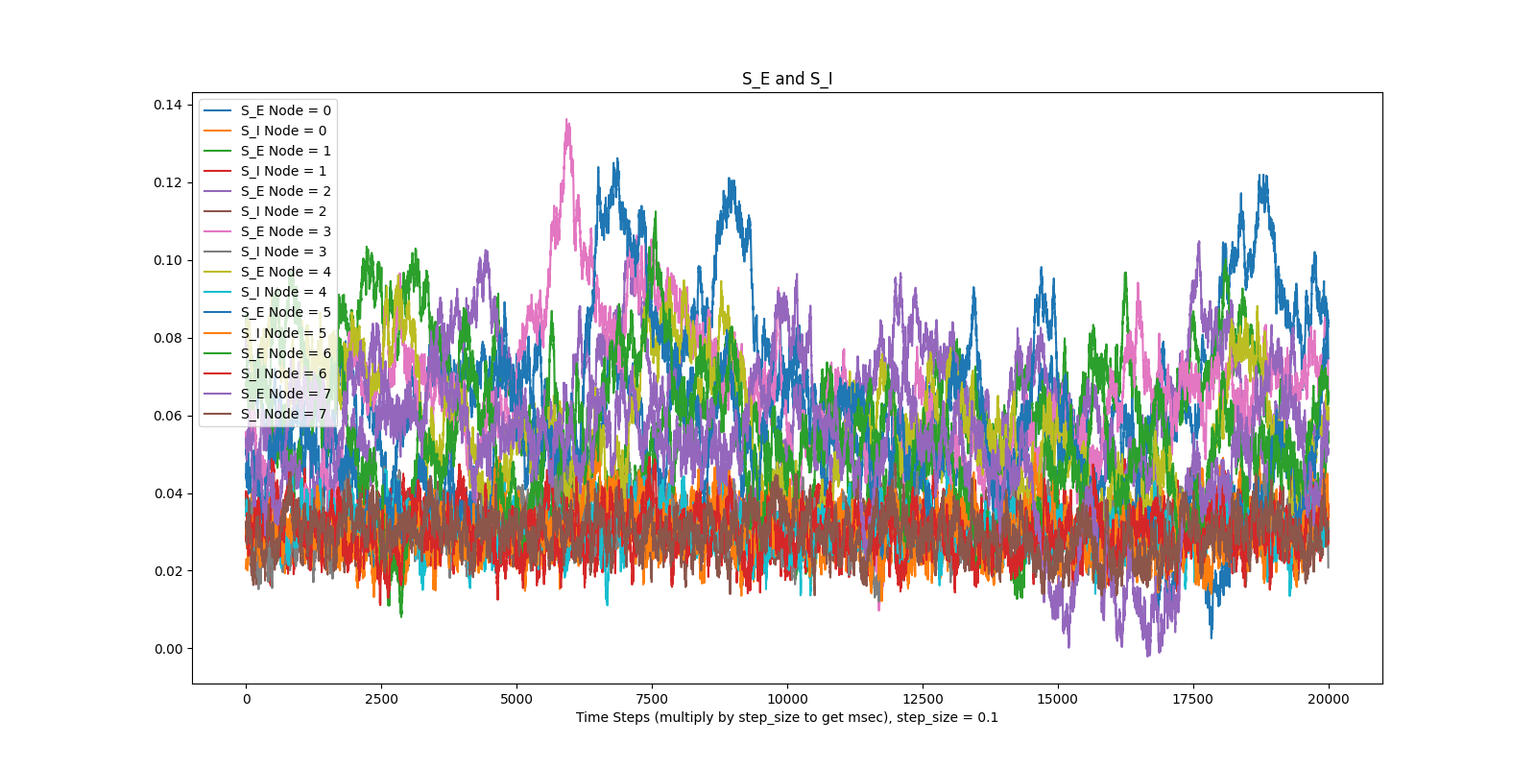
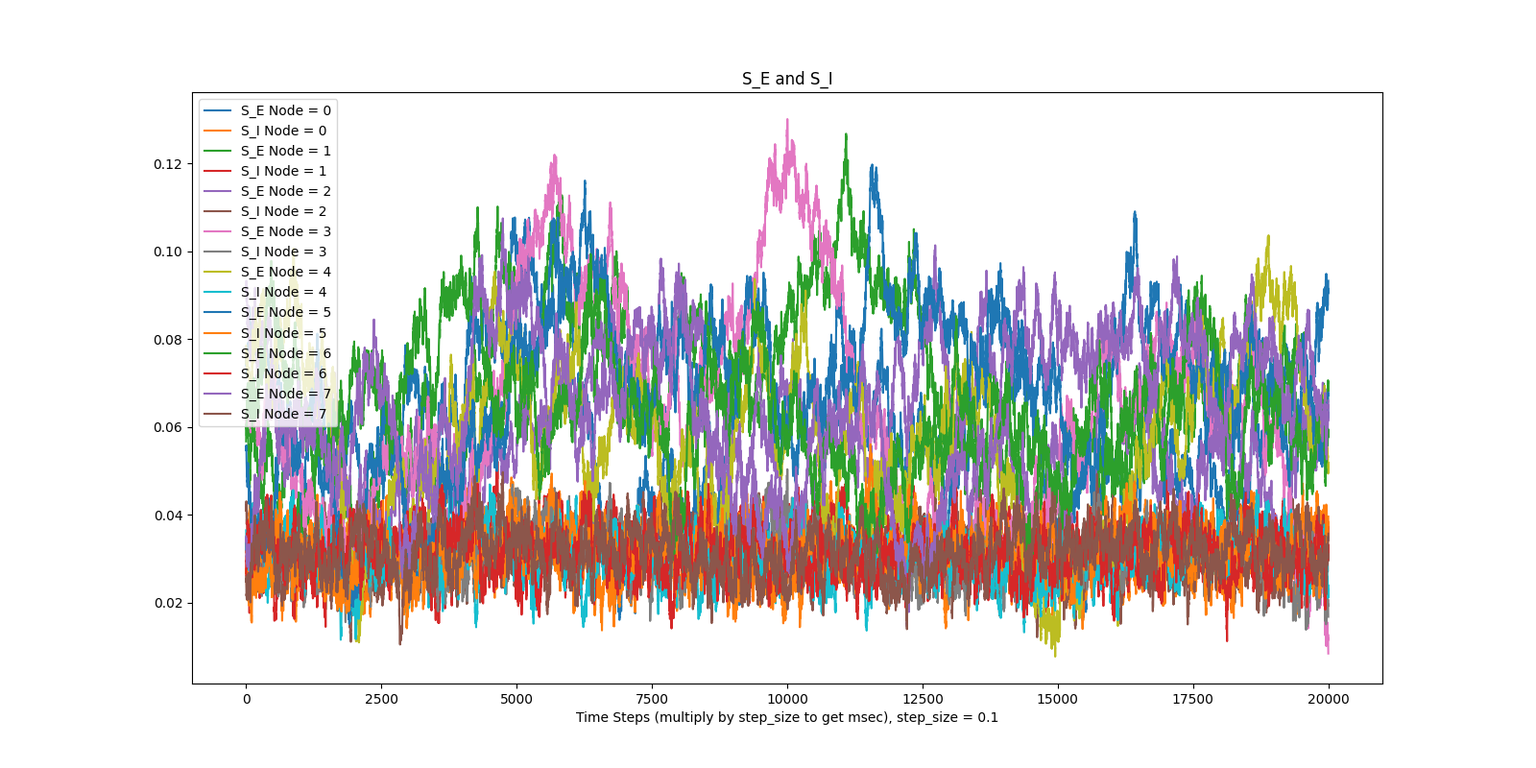
deploy: 3aa56848fb56332843e39df2d585531f913cd6cb

diff --git a/searchindex.js b/searchindex.js
@@ -1,1 +1,1 @@
-Search.setIndex({docnames:["about_whobyt/architecture","about_whobyt/overview","auto_examples/eg001x__template","auto_examples/eg002r__multimodal_simulation","auto_examples/index","auto_examples/sg_execution_times","getting_started/installation","getting_started/running_in_colab","index","usage"],envversion:{"sphinx.domains.c":2,"sphinx.domains.changeset":1,"sphinx.domains.citation":1,"sphinx.domains.cpp":3,"sphinx.domains.index":1,"sphinx.domains.javascript":2,"sphinx.domains.math":2,"sphinx.domains.python":2,"sphinx.domains.rst":2,"sphinx.domains.std":2,"sphinx.ext.intersphinx":1,"sphinx.ext.viewcode":1,sphinx:56},filenames:["about_whobyt/architecture.md","about_whobyt/overview.rst","auto_examples/eg001x__template.rst","auto_examples/eg002r__multimodal_simulation.rst","auto_examples/index.rst","auto_examples/sg_execution_times.rst","getting_started/installation.rst","getting_started/running_in_colab.rst","index.rst","usage.rst"],objects:{},objnames:{},objtypes:{},terms:{"000":[2,5],"0000":3,"002036104677245021":3,"005781529471278191":3,"0094150360673666":3,"010599048808217049":3,"01133935246616602":3,"0366364":3,"0370939":3,"037254":3,"0372727":3,"0374277":3,"0375037":3,"0375547":3,"0382934":3,"0619475":3,"0619864":3,"0619943":3,"0619949":3,"0620283":3,"0620583":3,"06206":3,"0620784":3,"0x7f73a041a0a0":3,"1000":[0,3],"1016335":3,"1021738":3,"1023388":3,"1024437":3,"1026025":3,"1027005":3,"1027243":3,"1035488":3,"11239":0,"12115564942359924":3,"1273":0,"1314":0,"1500":3,"15000":3,"164":[4,5,8],"1662248":3,"1662672":3,"1662673":3,"1662692":3,"1663083":3,"1663382":3,"1663412":3,"16636":3,"19158071279525757":3,"2000":3,"2003":0,"2006":0,"2013":0,"2014":0,"23532330989837646":3,"24999991":3,"271318":3,"2713506":3,"2713525":3,"2713609":3,"2714005":3,"2714304":3,"2714353":3,"2714536":3,"2741433382034302":3,"302":0,"30492928624153137":3,"3283":3,"33132219314575195":3,"3501226":3,"35012308":3,"3501232":3,"35012412":3,"35012466":3,"35012707":3,"35012767":3,"3501335":3,"3520013689994812":3,"3697364926338196":3,"3771743":3,"3771926":3,"3771958":3,"3772221":3,"3772597":3,"3772883":3,"3772994":3,"3773168":3,"38641345500946045":3,"40181997418403625":3,"41333746910095215":3,"42738163471221924":3,"4286":3,"43893444538116455":3,"44900232553482056":3,"45044634":3,"45045084":3,"45045668":3,"45046532":3,"4504661":3,"45047113":3,"4504718":3,"45048457":3,"4577788710594177":3,"4835687":3,"4835688":3,"4835947":3,"4836113":3,"4836515":3,"483664":3,"4837035":3,"4837241":3,"500":3,"5510708":3,"5510782":3,"55108964":3,"5511122":3,"55111665":3,"5511208":3,"5511244":3,"55114025":3,"5899936":3,"590003":3,"5900123":3,"5900214":3,"590066":3,"5900729":3,"5901526":3,"5901536":3,"6144":3,"65209836":3,"6521152":3,"65212756":3,"65215415":3,"6521694":3,"65217197":3,"6521728":3,"652192":3,"6931864":3,"6932437":3,"6932517":3,"6932706":3,"6933088":3,"6933185":3,"6933932":3,"6934042":3,"7536183":3,"7536405":3,"75365317":3,"753677":3,"7536811":3,"75370264":3,"7537048":3,"7537256":3,"7886":0,"7938849":3,"7938988":3,"7939461":3,"7939734":3,"7940006":3,"7940689":3,"794143":3,"7943685":3,"802":[3,5],"85571194":3,"855741":3,"85575396":3,"85576546":3,"8557822":3,"8558073":3,"85580933":3,"8558301":3,"8837867":3,"8839144":3,"8839935":3,"8840643":3,"8841339":3,"884198":3,"8842194":3,"884711":3,"95846355":3,"958498":3,"9585084":3,"95851374":3,"95853984":3,"9585676":3,"9585696":3,"95858866":3,"9643142":3,"9646422":3,"9647535":3,"9648108":3,"9649364":3,"964938":3,"965015":3,"9656528":3,"case":0,"class":[0,3],"default":[4,5,8],"float":3,"function":[0,4],"import":[0,2,3,7],"int":3,"long":0,"new":7,"return":3,"super":3,"true":3,Added:3,And:2,Not:3,That:3,The:[0,2],Then:[3,7],Used:3,__init__:3,a_E:0,a_i:0,abl:3,abs:3,activ:6,adam:3,add:[1,3],addit:[0,7],all:3,alreadi:3,also:3,alvarez:0,amplitud:0,ani:4,anywai:7,append:3,approv:7,artifici:[0,3],assum:3,ath:2,aug:0,auto_exampl:5,auto_examples_jupyt:4,auto_examples_python:4,avail:4,averag:0,axessubplot:3,axi:3,b_e:0,b_i:0,backward:3,batch:0,being:3,between:3,biolog:0,bit:3,blah:[2,3],bold_fc:3,bold_fc_loss:3,bold_fc_weight:3,bold_histori:3,bold_lay:3,bold_p:3,bold_param:3,bold_psd:3,bold_psd_loss:3,bold_psd_weight:3,bold_stat:3,brain:0,branch:7,browser:7,calcfc:3,calcloss:3,calcpsd:3,calctotalloss:3,calcul:0,call:0,can:[4,7],cat:3,causal:0,cell:7,center:3,chang:3,chdir:7,choosen:3,chosen:3,click:[2,3],clone:[3,6,7],cmap:3,cmat:0,code:[2,3,4,7],com:[6,7],come:9,compar:0,compon:3,con_mtx:3,conda:6,condit:[0,3],conn_mat:0,connect:0,construct:0,contain:3,continu:7,conveni:7,corbetta:0,corner:3,correspond:7,coupl:0,courner:3,creat:[3,6],cube:3,current:[0,3],d_e:0,d_i:0,data:[0,3],data_tofit:0,debug:3,decis:0,deco:0,decorrel:3,def:3,defin:0,delai:0,delayst:0,demo:[4,5],depend:0,detach:3,differ:[0,3,4],dim:3,dist:3,dist_mtx:3,distanc:3,distribut:3,dmat:0,doc:7,doe:[2,3],down:7,download:[2,3,4],downsmoothpsd:3,drop:7,dtype:3,dure:3,dynam:0,each:[0,3,7],eeg:0,eeg_fc:3,eeg_fc_loss:3,eeg_fc_weight:3,eeg_histori:3,eeg_lay:3,eeg_param:3,eeg_psd:3,eeg_psd_loss:3,eeg_psd_weight:3,effect:0,eg001x__templ:[2,5],eg002r__multimodal_simul:[3,5],eig:3,eigenvalu:3,either:0,electrod:3,els:3,emerg:0,empir:0,environ:[6,7],epoch:3,equal:3,equat:0,erp_timeseries_data:0,event:3,exampl:[2,3,7],excit:0,excitatori:0,execut:5,experi:7,explor:4,extern:0,eye:3,face:3,fals:3,feed:0,feedback:0,ffi:0,fic:0,figsiz:3,figur:3,file:[0,5,7],find:3,first:[3,7],fit:[0,4,5,8],fit_model:0,fitted_r:0,fitter:0,fluctuat:0,fmri:0,folder:6,follow:7,forward:[0,3],four:3,fourth:3,friston:0,from:[0,2,3,6],full:[2,3],functionalconnectivityloss:3,galleri:[2,3,4,7],gamma:0,gammai:0,gate:0,gaussian:0,gener:[2,4],get:[0,3],git:[6,7],github:[6,7],good:7,graph:0,griffithslab:[6,7],hagmann:0,harrison:0,has:4,heatmap:3,here:[2,3,9],how:0,http:[6,7],i_0:0,i_extern:0,idea:7,imag:2,impact:0,increasingli:7,index_img:2,indiviu:3,inhibit:0,inhibitori:0,init_st:3,initi:3,input:0,insert:7,instal:8,install_colab:7,integr:0,ipynb:[2,3,7],item:3,j_nmda:0,j_valu:3,jan:0,jansen_lay:3,jansenritt:0,journal:0,jul:0,jun:0,jupyt:[2,3,4],kinet:0,label:3,lambda:0,latest:6,layer:0,lead_field:3,legend:3,length:3,lf_con_mtx:3,lf_dist_mtx:3,lf_norm:3,lf_sc_mtx:3,lf_sc_mtx_norm:3,lf_sphere_point:3,lf_square_point:3,librari:2,like:2,linalg:3,linear:0,list:[3,7],local:0,locat:3,look:3,loss:[0,3],losscomp:3,losscompon:3,mai:0,make:3,mantini:0,manual:6,mask:3,matplotlib:[2,3],matrix_norm:3,max:3,maxfreq:3,mean:[4,5,8],meanvariableloss:3,mechan:0,middl:3,might:3,minfreq:3,minim:7,minut:[2,3],mmmodel:3,modal:3,model_fit:3,modif:0,modul:[3,4],more:[2,3],msec:3,multi:3,multipli:3,named_paramet:3,navig:7,network:0,neuroimag:[0,2],neurosci:0,next_start_st:3,nib:2,nibabel:2,nilearn:2,node:[0,3],node_histori:3,node_st:3,nois:0,norm:3,normal:3,note:[0,3,9],notebook:[2,3,7],noth:3,now:[0,6,7],num_channel:3,num_epoch:0,num_region:3,numpi:3,object:0,objectivefunct:3,omput:7,one:7,ones:3,onto:3,optim:3,option:7,ord:3,order:4,organ:[4,7],oscil:0,other:0,out:3,over:3,overal:0,page:7,pair:3,panda:[2,3],paper:0,param:[0,3],paramet:[4,5,8],paramsbold:3,paramseeg:3,paramsjr:[0,3],paramsnod:3,penni:0,perceptu:0,pip:6,place:3,plot:[0,2],plot_stat_map:2,plt:[2,3],point:3,ponc:0,powerspectrumloss:3,present:0,print:[2,3],project:3,psd:0,pyplot:[2,3],python:[2,3,4,6,7],radiu:3,randn_lik:3,random:3,rang:[0,3],ratio:0,rdbu_r:3,recurr:0,region:3,rel:3,relat:2,remov:3,repeat:3,repositori:7,requir:6,requires_grad:3,research:7,rest:[0,7],returnlosscompon:3,rnn:0,rnnjansen:[0,3],rnnwwd:3,romani:0,run:[0,2,3],rww:[0,4,5,8],rww_layer:3,rww_param:3,s_e:[0,4,5,8],s_e_mean:3,s_e_mean_loss:3,s_e_mean_weight:3,s_i:0,s_i_mean:3,s_i_mean_loss:3,s_i_mean_weight:3,sai:2,samplefreqhz:3,sc_mtx:3,sc_mtx_norm:3,scalepsd:3,scientif:7,script:[2,3],sdaxi:3,sdaxis_d:3,sdvalu:3,sdvalues_d:3,sdvalues_ds_sc:3,seaborn:3,second:[2,3],section:4,see:7,select:7,self:[0,3],serv:0,set:0,shape:[0,3],should:[0,7],sig:0,signal:[0,3],sim_fc:3,sim_len:3,sim_r:0,similar:3,simpli:0,simul:[0,3],size:3,skip_tran:3,sleep:7,slow:0,sns:3,some:[3,7],sourc:[2,3,4],sphere:3,sphere_point:3,sphinx:[2,3,4,7],sqrt:3,squar:3,square_point:3,squre:3,standard:0,start:0,state:0,step:[3,7],step_siz:3,str:3,stuff:[2,3],suggest:0,sum:3,synapt:0,system:7,tab:7,take:0,targeteeg:3,targetvalu:3,tau_:0,tau_i:0,tau_nmda:0,temporarili:0,tensor:3,test:0,text:3,theoret:3,thi:[0,3,4],third:3,thu:3,time:[0,2,3,7],timeseri:0,titl:3,todo:0,tool:2,top:7,topic:4,torch:3,total:[2,3,5],totalloss:3,totallossfn:3,track:3,txt:6,uncorrel:0,updat:[0,3],use_prior:0,used:7,useful:7,using:[0,4,5,8],v_of_t:0,valu:[0,3],variabl:0,varidx:3,variou:3,version:6,viz:[0,3],vmax:3,vmin:3,w_e:0,w_i:0,w_plu:0,wai:3,wang:0,weight:3,were:3,what:3,which:0,whobpyt:[3,4,5,6],whole:0,wong:0,written:3,xlabel:3,ylabel:3,you:7,zero:3,zero_grad:3,zheng:0,zip:4},titles:["WhoBPyT Code Base Architecture","Overview","WhoBPyT Demo","Fitting S_E Mean to 0.164 using default RWW Parameters","All Notebook Examples","Computation times","Installation","Running whobpyt in google colab","Welcome to WhoBPyT documentation!","Usage"],titleterms:{"164":3,"default":3,"function":3,The:3,adjust:3,after:3,all:4,anoth:2,api:0,architectur:0,base:0,biophys:0,bold:3,channel:3,cnmm:3,code:0,colab:7,comput:5,connect:3,content:4,defin:3,demo:2,document:8,eeg:3,exampl:4,field:3,fit:3,further:3,gener:3,get:8,googl:7,importag:[2,3],instal:6,lead:3,local:4,matrix:3,mean:3,model:[0,3],modul:0,network:3,notebook:4,object:3,overview:1,paramet:[0,3],physic:3,plot:3,possibl:3,psd:3,run:7,rww:3,rww_layer:0,rww_param:0,s_e:3,s_i:3,some:2,space:3,start:8,structur:[0,3],system:0,thing:2,time:5,train:3,usag:[0,9],using:3,welcom:8,whobpyt:[0,2,7,8]}})
+Search.setIndex({docnames:["about_whobyt/architecture","about_whobyt/overview","auto_examples/eg001x__template","auto_examples/eg002r__multimodal_simulation","auto_examples/index","auto_examples/sg_execution_times","getting_started/installation","getting_started/running_in_colab","index","usage"],envversion:{"sphinx.domains.c":2,"sphinx.domains.changeset":1,"sphinx.domains.citation":1,"sphinx.domains.cpp":3,"sphinx.domains.index":1,"sphinx.domains.javascript":2,"sphinx.domains.math":2,"sphinx.domains.python":2,"sphinx.domains.rst":2,"sphinx.domains.std":2,"sphinx.ext.intersphinx":1,"sphinx.ext.viewcode":1,sphinx:56},filenames:["about_whobyt/architecture.md","about_whobyt/overview.rst","auto_examples/eg001x__template.rst","auto_examples/eg002r__multimodal_simulation.rst","auto_examples/index.rst","auto_examples/sg_execution_times.rst","getting_started/installation.rst","getting_started/running_in_colab.rst","index.rst","usage.rst"],objects:{},objnames:{},objtypes:{},terms:{"000":[2,5],"0000":3,"0028886040672659874":3,"005750397220253944":3,"008472681976854801":3,"00966897513717413":3,"009988600388169289":3,"0360103":3,"036015":3,"0360467":3,"0361357":3,"0368123":3,"0368483":3,"0371892":3,"037229":3,"0619602":3,"0619746":3,"06199":3,"0619936":3,"0620114":3,"0620167":3,"0620382":3,"0620472":3,"0x7f7bf7fc4670":3,"1000":[0,3],"1010072":3,"1010866":3,"1011379":3,"101193":3,"1020572":3,"1021316":3,"1024857":3,"1025362":3,"11239":0,"11912272125482559":3,"1273":0,"1314":0,"1500":3,"15000":3,"164":[4,5,8],"1662158":3,"1662201":3,"1662443":3,"1662604":3,"1662629":3,"1662803":3,"1662886":3,"16632":3,"169":[3,5],"18623781204223633":3,"2000":3,"2003":0,"2006":0,"2013":0,"2014":0,"23670479655265808":3,"24999991":3,"2712475":3,"2712846":3,"2713214":3,"2713385":3,"271343":3,"2713581":3,"2713706":3,"2713983":3,"2747479975223541":3,"302":0,"3031167685985565":3,"3283":3,"3299173414707184":3,"349921852350235":3,"35011318":3,"35011712":3,"3501218":3,"3501245":3,"35013065":3,"35013175":3,"35013497":3,"3501352":3,"3727840483188629":3,"3771024":3,"3771319":3,"3771743":3,"3771937":3,"377209":3,"3772229":3,"3772334":3,"3772612":3,"3859928548336029":3,"4012949466705322":3,"4158720374107361":3,"4270980656147003":3,"4286":3,"43866902589797974":3,"44819748401641846":3,"45044464":3,"45045507":3,"45046508":3,"4504663":3,"45046854":3,"4504707":3,"45047438":3,"4504811":3,"45792874693870544":3,"4835525":3,"4835823":3,"4835829":3,"4836123":3,"4836246":3,"4836491":3,"4836688":3,"4836866":3,"500":3,"5510819":3,"5510932":3,"5511106":3,"55111176":3,"55111474":3,"5511212":3,"55112153":3,"55113196":3,"5897732":3,"5898482":3,"5898557":3,"5898849":3,"5898869":3,"589929":3,"5899957":3,"5900097":3,"6144":3,"6521192":3,"6521238":3,"652145":3,"652151":3,"65215313":3,"65216434":3,"65216637":3,"65217173":3,"6924806":3,"6925071":3,"6926256":3,"6926712":3,"6926961":3,"6927688":3,"6927848":3,"6928804":3,"7536433":3,"7536461":3,"75366294":3,"75366473":3,"75367504":3,"7536791":3,"75369453":3,"75370157":3,"7886":0,"7930255":3,"7930758":3,"7931284":3,"7932166":3,"7933395":3,"7934923":3,"793536":3,"7935869":3,"8557394":3,"8557445":3,"8557481":3,"85575974":3,"8557742":3,"8557774":3,"8557968":3,"85580385":3,"8829542":3,"8830245":3,"8830833":3,"8830863":3,"8833997":3,"8835701":3,"8836399":3,"8837658":3,"95848596":3,"9584923":3,"9585046":3,"9585108":3,"95852745":3,"9585321":3,"9585528":3,"9585601":3,"963604":3,"9636556":3,"9636761":3,"9637126":3,"9642351":3,"9642849":3,"9645181":3,"9646163":3,"case":0,"class":[0,3],"default":[4,5,8],"float":3,"function":[0,4],"import":[0,2,3,7],"int":3,"long":0,"new":7,"return":3,"super":3,"true":3,Added:3,And:2,Not:3,That:3,The:[0,2],Then:[3,7],Used:3,__init__:3,a_E:0,a_i:0,abl:3,abs:3,activ:6,adam:3,add:[1,3],addit:[0,7],all:3,alreadi:3,also:3,alvarez:0,amplitud:0,ani:4,anywai:7,append:3,approv:7,artifici:[0,3],assum:3,ath:2,aug:0,auto_exampl:5,auto_examples_jupyt:4,auto_examples_python:4,avail:4,averag:0,axessubplot:3,axi:3,b_e:0,b_i:0,backward:3,batch:0,being:3,between:3,biolog:0,bit:3,blah:[2,3],bold_fc:3,bold_fc_loss:3,bold_fc_weight:3,bold_histori:3,bold_lay:3,bold_p:3,bold_param:3,bold_psd:3,bold_psd_loss:3,bold_psd_weight:3,bold_stat:3,brain:0,branch:7,browser:7,calcfc:3,calcloss:3,calcpsd:3,calctotalloss:3,calcul:0,call:0,can:[4,7],cat:3,causal:0,cell:7,center:3,chang:3,chdir:7,choosen:3,chosen:3,click:[2,3],clone:[3,6,7],cmap:3,cmat:0,code:[2,3,4,7],com:[6,7],come:9,compar:0,compon:3,con_mtx:3,conda:6,condit:[0,3],conn_mat:0,connect:0,construct:0,contain:3,continu:7,conveni:7,corbetta:0,corner:3,correspond:7,coupl:0,courner:3,creat:[3,6],cube:3,current:[0,3],d_e:0,d_i:0,data:[0,3],data_tofit:0,debug:3,decis:0,deco:0,decorrel:3,def:3,defin:0,delai:0,delayst:0,demo:[4,5],depend:0,detach:3,differ:[0,3,4],dim:3,dist:3,dist_mtx:3,distanc:3,distribut:3,dmat:0,doc:7,doe:[2,3],down:7,download:[2,3,4],downsmoothpsd:3,drop:7,dtype:3,dure:3,dynam:0,each:[0,3,7],eeg:0,eeg_fc:3,eeg_fc_loss:3,eeg_fc_weight:3,eeg_histori:3,eeg_lay:3,eeg_param:3,eeg_psd:3,eeg_psd_loss:3,eeg_psd_weight:3,effect:0,eg001x__templ:[2,5],eg002r__multimodal_simul:[3,5],eig:3,eigenvalu:3,either:0,electrod:3,els:3,emerg:0,empir:0,environ:[6,7],epoch:3,equal:3,equat:0,erp_timeseries_data:0,event:3,exampl:[2,3,7],excit:0,excitatori:0,execut:5,experi:7,explor:4,extern:0,eye:3,face:3,fals:3,feed:0,feedback:0,ffi:0,fic:0,figsiz:3,figur:3,file:[0,5,7],find:3,first:[3,7],fit:[0,4,5,8],fit_model:0,fitted_r:0,fitter:0,fluctuat:0,fmri:0,folder:6,follow:7,forward:[0,3],four:3,fourth:3,friston:0,from:[0,2,3,6],full:[2,3],functionalconnectivityloss:3,galleri:[2,3,4,7],gamma:0,gammai:0,gate:0,gaussian:0,gener:[2,4],get:[0,3],git:[6,7],github:[6,7],good:7,graph:0,griffithslab:[6,7],hagmann:0,harrison:0,has:4,heatmap:3,here:[2,3,9],how:0,http:[6,7],i_0:0,i_extern:0,idea:7,imag:2,impact:0,increasingli:7,index_img:2,indiviu:3,inhibit:0,inhibitori:0,init_st:3,initi:3,input:0,insert:7,instal:8,install_colab:7,integr:0,ipynb:[2,3,7],item:3,j_nmda:0,j_valu:3,jan:0,jansen_lay:3,jansenritt:0,journal:0,jul:0,jun:0,jupyt:[2,3,4],kinet:0,label:3,lambda:0,latest:6,layer:0,lead_field:3,legend:3,length:3,lf_con_mtx:3,lf_dist_mtx:3,lf_norm:3,lf_sc_mtx:3,lf_sc_mtx_norm:3,lf_sphere_point:3,lf_square_point:3,librari:2,like:2,linalg:3,linear:0,list:[3,7],local:0,locat:3,look:3,loss:[0,3],losscomp:3,losscompon:3,mai:0,make:3,mantini:0,manual:6,mask:3,matplotlib:[2,3],matrix_norm:3,max:3,maxfreq:3,mean:[4,5,8],meanvariableloss:3,mechan:0,middl:3,might:3,minfreq:3,minim:7,minut:[2,3],mmmodel:3,modal:3,model_fit:3,modif:0,modul:[3,4],more:[2,3],msec:3,multi:3,multipli:3,named_paramet:3,navig:7,network:0,neuroimag:[0,2],neurosci:0,next_start_st:3,nib:2,nibabel:2,nilearn:2,node:[0,3],node_histori:3,node_st:3,nois:0,norm:3,normal:3,note:[0,3,9],notebook:[2,3,7],noth:3,now:[0,6,7],num_channel:3,num_epoch:0,num_region:3,numpi:3,object:0,objectivefunct:3,omput:7,one:7,ones:3,onto:3,optim:3,option:7,ord:3,order:4,organ:[4,7],oscil:0,other:0,out:3,over:3,overal:0,page:7,pair:3,panda:[2,3],paper:0,param:[0,3],paramet:[4,5,8],paramsbold:3,paramseeg:3,paramsjr:[0,3],paramsnod:3,penni:0,perceptu:0,pip:6,place:3,plot:[0,2],plot_stat_map:2,plt:[2,3],point:3,ponc:0,powerspectrumloss:3,present:0,print:[2,3],project:3,psd:0,pyplot:[2,3],python:[2,3,4,6,7],radiu:3,randn_lik:3,random:3,rang:[0,3],ratio:0,rdbu_r:3,recurr:0,region:3,rel:3,relat:2,remov:3,repeat:3,repositori:7,requir:6,requires_grad:3,research:7,rest:[0,7],returnlosscompon:3,rnn:0,rnnjansen:[0,3],rnnwwd:3,romani:0,run:[0,2,3],rww:[0,4,5,8],rww_layer:3,rww_param:3,s_e:[0,4,5,8],s_e_mean:3,s_e_mean_loss:3,s_e_mean_weight:3,s_i:0,s_i_mean:3,s_i_mean_loss:3,s_i_mean_weight:3,sai:2,samplefreqhz:3,sc_mtx:3,sc_mtx_norm:3,scalepsd:3,scientif:7,script:[2,3],sdaxi:3,sdaxis_d:3,sdvalu:3,sdvalues_d:3,sdvalues_ds_sc:3,seaborn:3,second:[2,3],section:4,see:7,select:7,self:[0,3],serv:0,set:0,shape:[0,3],should:[0,7],sig:0,signal:[0,3],sim_fc:3,sim_len:3,sim_r:0,similar:3,simpli:0,simul:[0,3],size:3,skip_tran:3,sleep:7,slow:0,sns:3,some:[3,7],sourc:[2,3,4],sphere:3,sphere_point:3,sphinx:[2,3,4,7],sqrt:3,squar:3,square_point:3,squre:3,standard:0,start:0,state:0,step:[3,7],step_siz:3,str:3,stuff:[2,3],suggest:0,sum:3,synapt:0,system:7,tab:7,take:0,targeteeg:3,targetvalu:3,tau_:0,tau_i:0,tau_nmda:0,temporarili:0,tensor:3,test:0,text:3,theoret:3,thi:[0,3,4],third:3,thu:3,time:[0,2,3,7],timeseri:0,titl:3,todo:0,tool:2,top:7,topic:4,torch:3,total:[2,3,5],totalloss:3,totallossfn:3,track:3,txt:6,uncorrel:0,updat:[0,3],use_prior:0,used:7,useful:7,using:[0,4,5,8],v_of_t:0,valu:[0,3],variabl:0,varidx:3,variou:3,version:6,viz:[0,3],vmax:3,vmin:3,w_e:0,w_i:0,w_plu:0,wai:3,wang:0,weight:3,were:3,what:3,which:0,whobpyt:[3,4,5,6],whole:0,wong:0,written:3,xlabel:3,ylabel:3,you:7,zero:3,zero_grad:3,zheng:0,zip:4},titles:["WhoBPyT Code Base Architecture","Overview","WhoBPyT Demo","Fitting S_E Mean to 0.164 using default RWW Parameters","All Notebook Examples","Computation times","Installation","Running whobpyt in google colab","Welcome to WhoBPyT documentation!","Usage"],titleterms:{"164":3,"default":3,"function":3,The:3,adjust:3,after:3,all:4,anoth:2,api:0,architectur:0,base:0,biophys:0,bold:3,channel:3,cnmm:3,code:0,colab:7,comput:5,connect:3,content:4,defin:3,demo:2,document:8,eeg:3,exampl:4,field:3,fit:3,further:3,gener:3,get:8,googl:7,importag:[2,3],instal:6,lead:3,local:4,matrix:3,mean:3,model:[0,3],modul:0,network:3,notebook:4,object:3,overview:1,paramet:[0,3],physic:3,plot:3,possibl:3,psd:3,run:7,rww:3,rww_layer:0,rww_param:0,s_e:3,s_i:3,some:2,space:3,start:8,structur:[0,3],system:0,thing:2,time:5,train:3,usag:[0,9],using:3,welcom:8,whobpyt:[0,2,7,8]}})

diff --git a/auto_examples/eg002r__multimodal_simulation.html b/auto_examples/eg002r__multimodal_simulation.html
@@ -466,85 +466,85 @@ Also, written in such a way as to be able to track and plot indiviual components
 tensor([0.1500, 0.1500, 0.1500, 0.1500, 0.1500, 0.1500, 0.1500, 0.1500],
        requires_grad=True))]
 0
-totalLoss =  0.4577788710594177
+totalLoss =  0.45792874693870544
 J values =  [0.24999991 0.24999991 0.24999991 0.24999991 0.24999991 0.24999991
  0.24999991 0.24999991]
 1
-totalLoss =  0.44900232553482056
-J values =  [0.35012767 0.3501335  0.35012412 0.35012707 0.35012466 0.3501226
- 0.3501232  0.35012308]
+totalLoss =  0.44819748401641846
+J values =  [0.35013497 0.35013175 0.3501245  0.35011318 0.35013065 0.3501352
+ 0.3501218  0.35011712]
 2
-totalLoss =  0.43893444538116455
-J values =  [0.45047113 0.45048457 0.45044634 0.45045084 0.4504718  0.45045668
- 0.4504661  0.45046532]
+totalLoss =  0.43866902589797974
+J values =  [0.4504811  0.4504707  0.45046854 0.45044464 0.4504663  0.45047438
+ 0.45046508 0.45045507]
 3
-totalLoss =  0.42738163471221924
-J values =  [0.5511208  0.55114025 0.5510782  0.5510708  0.5511244  0.55108964
- 0.55111665 0.5511122 ]
+totalLoss =  0.4270980656147003
+J values =  [0.55113196 0.5511106  0.55112153 0.5510819  0.55111176 0.5511212
+ 0.55111474 0.5510932 ]
 4
-totalLoss =  0.41333746910095215
-J values =  [0.65217197 0.652192   0.6521152  0.65209836 0.6521728  0.65212756
- 0.6521694  0.65215415]
+totalLoss =  0.4158720374107361
+J values =  [0.65217173 0.652145   0.65216434 0.6521192  0.652151   0.65216637
+ 0.65215313 0.6521238 ]
 5
-totalLoss =  0.40181997418403625
-J values =  [0.7537048  0.7537256  0.7536405  0.7536183  0.75370264 0.75365317
- 0.753677   0.7536811 ]
+totalLoss =  0.4012949466705322
+J values =  [0.75370157 0.75366473 0.75366294 0.7536461  0.75367504 0.75369453
+ 0.7536791  0.7536433 ]
 6
-totalLoss =  0.38641345500946045
-J values =  [0.85580933 0.8558301  0.855741   0.85571194 0.8558073  0.85575396
- 0.85576546 0.8557822 ]
+totalLoss =  0.3859928548336029
+J values =  [0.85580385 0.85575974 0.8557445  0.8557481  0.8557742  0.8557968
+ 0.8557774  0.8557394 ]
 7
-totalLoss =  0.3697364926338196
-J values =  [0.9585696  0.95858866 0.958498   0.95846355 0.9585676  0.9585084
- 0.95851374 0.95853984]
+totalLoss =  0.3727840483188629
+J values =  [0.9585601  0.9585108  0.95848596 0.9585046  0.95852745 0.9585528
+ 0.9585321  0.9584923 ]
 8
-totalLoss =  0.3520013689994812
-J values =  [1.06206   1.0620784 1.0619864 1.0619475 1.0620583 1.0619943 1.0619949
- 1.0620283]
+totalLoss =  0.349921852350235
+J values =  [1.0620472 1.0619936 1.0619602 1.06199   1.0620114 1.0620382 1.0620167
+ 1.0619746]
 9
-totalLoss =  0.33132219314575195
-J values =  [1.1663412 1.16636   1.1662672 1.1662248 1.1663382 1.1662692 1.1662673
- 1.1663083]
+totalLoss =  0.3299173414707184
+J values =  [1.16632   1.1662629 1.1662201 1.1662604 1.1662803 1.1662158 1.1662886
+ 1.1662443]
 10
-totalLoss =  0.30492928624153137
-J values =  [1.2714353 1.2714536 1.2713609 1.271318  1.2714304 1.2713525 1.2713506
- 1.2714005]
+totalLoss =  0.3031167685985565
+J values =  [1.2713983 1.271343  1.2712846 1.2713385 1.2713581 1.2712475 1.2713706
+ 1.2713214]
 11
-totalLoss =  0.2741433382034302
-J values =  [1.3772994 1.3773168 1.3772221 1.3771743 1.3772883 1.3771958 1.3771926
- 1.3772597]
+totalLoss =  0.2747479975223541
+J values =  [1.3772612 1.377209  1.3771319 1.3771937 1.3772229 1.3771024 1.3772334
+ 1.3771743]
 12
-totalLoss =  0.23532330989837646
-J values =  [1.4837035 1.4837241 1.4836113 1.4835688 1.483664  1.4835947 1.4835687
- 1.4836515]
+totalLoss =  0.23670479655265808
+J values =  [1.4836866 1.4836246 1.4835525 1.4836123 1.4836491 1.4835823 1.4836688
+ 1.4835829]
 13
-totalLoss =  0.19158071279525757
-J values =  [1.5901526 1.5901536 1.5899936 1.590003  1.5900729 1.5900214 1.5900123
- 1.590066 ]
+totalLoss =  0.18623781204223633
+J values =  [1.5899957 1.5898849 1.5897732 1.5898482 1.5898869 1.5900097 1.589929
+ 1.5898557]
 14
-totalLoss =  0.12115564942359924
-J values =  [1.6934042 1.6933088 1.6932706 1.6932517 1.6933932 1.6932437 1.6931864
- 1.6933185]
+totalLoss =  0.11912272125482559
+J values =  [1.6926256 1.6927688 1.6924806 1.6925071 1.6926961 1.6928804 1.6927848
+ 1.6926712]
 15
-totalLoss =  0.002036104677245021
-J values =  [1.794143  1.7940689 1.7938988 1.7939461 1.7943685 1.7939734 1.7938849
- 1.7940006]
+totalLoss =  0.0028886040672659874
+J values =  [1.7931284 1.7935869 1.7930255 1.7930758 1.7934923 1.793536  1.7932166
+ 1.7933395]
 16
-totalLoss =  0.005781529471278191
-J values =  [1.884198  1.8842194 1.8837867 1.8839935 1.884711  1.8841339 1.8839144
- 1.8840643]
+totalLoss =  0.005750397220253944
+J values =  [1.8830863 1.8837658 1.8829542 1.8830245 1.8836399 1.8835701 1.8830833
+ 1.8833997]
 17
-totalLoss =  0.0094150360673666
-J values =  [1.9649364 1.965015  1.9643142 1.9647535 1.9656528 1.964938  1.9646422
- 1.9648108]
+totalLoss =  0.008472681976854801
+J values =  [1.9637126 1.9646163 1.963604  1.9636556 1.9645181 1.9642849 1.9636761
+ 1.9642351]
 18
-totalLoss =  0.010599048808217049
-J values =  [2.0374277 2.0375547 2.0366364 2.037254  2.0382934 2.0375037 2.0370939
- 2.0372727]
+totalLoss =  0.00966897513717413
+J values =  [2.0361357 2.037229  2.036015  2.0360467 2.0371892 2.0368483 2.0360103
+ 2.0368123]
 19
-totalLoss =  0.01133935246616602
-J values =  [2.1026025 2.1027243 2.1016335 2.1024437 2.1035488 2.1027005 2.1021738
- 2.1023388]
+totalLoss =  0.009988600388169289
+J values =  [2.101193  2.1025362 2.1010866 2.1011379 2.1024857 2.1021316 2.1010072
+ 2.1020572]
 
 Text(0.5, 1.0, &#39;J_{i} Values Changing Over Training Epochs&#39;)
 </pre></div>
@@ -564,7 +564,7 @@ Text(0.5, 1.0, &#39;J_{i} Values Changing Over Training Epochs&#39;)
 </div>
 <img alt="S_E and S_I" class="sphx-glr-single-img" src="../_images/sphx_glr_eg002r__multimodal_simulation_003.png" />
 <p class="sphx-glr-script-out">Out:</p>
-<div class="sphx-glr-script-out highlight-none notranslate"><div class="highlight"><pre><span></span>&lt;matplotlib.legend.Legend object at 0x7f73a041a0a0&gt;
+<div class="sphx-glr-script-out highlight-none notranslate"><div class="highlight"><pre><span></span>&lt;matplotlib.legend.Legend object at 0x7f7bf7fc4670&gt;
 </pre></div>
 </div>
 </div>
@@ -606,7 +606,7 @@ Text(0.5, 1.0, &#39;J_{i} Values Changing Over Training Epochs&#39;)
 &lt;AxesSubplot:title={&#39;center&#39;:&#39;Simulated BOLD FC: After Training&#39;}&gt;
 </pre></div>
 </div>
-<p class="sphx-glr-timing"><strong>Total running time of the script:</strong> ( 19 minutes  41.802 seconds)</p>
+<p class="sphx-glr-timing"><strong>Total running time of the script:</strong> ( 19 minutes  33.169 seconds)</p>
 <div class="sphx-glr-footer class sphx-glr-footer-example docutils container" id="sphx-glr-download-auto-examples-eg002r-multimodal-simulation-py">
 <div class="sphx-glr-download sphx-glr-download-python docutils container">
 <p><a class="reference download internal" download="" href="../_downloads/3c5011f8f7f9c596535d7002f9b87c31/eg002r__multimodal_simulation.py"><code class="xref download docutils literal notranslate"><span class="pre">Download</span> <span class="pre">Python</span> <span class="pre">source</span> <span class="pre">code:</span> <span class="pre">eg002r__multimodal_simulation.py</span></code></a></p>

diff --git a/auto_examples/sg_execution_times.html b/auto_examples/sg_execution_times.html
@@ -178,7 +178,7 @@
             
   <div class="section" id="computation-times">
 <span id="sphx-glr-auto-examples-sg-execution-times"></span><h1>Computation times<a class="headerlink" href="#computation-times" title="Permalink to this headline">¶</a></h1>
-<p><strong>19:41.802</strong> total execution time for <strong>auto_examples</strong> files:</p>
+<p><strong>19:33.169</strong> total execution time for <strong>auto_examples</strong> files:</p>
 <table class="docutils align-default">
 <colgroup>
 <col style="width: 84%" />
@@ -187,7 +187,7 @@
 </colgroup>
 <tbody>
 <tr class="row-odd"><td><p><a class="reference internal" href="eg002r__multimodal_simulation.html#sphx-glr-auto-examples-eg002r-multimodal-simulation-py"><span class="std std-ref">Fitting S_E Mean to 0.164 using default RWW Parameters</span></a> (<code class="docutils literal notranslate"><span class="pre">eg002r__multimodal_simulation.py</span></code>)</p></td>
-<td><p>19:41.802</p></td>
+<td><p>19:33.169</p></td>
 <td><p>0.0 MB</p></td>
 </tr>
 <tr class="row-even"><td><p><a class="reference internal" href="eg001x__template.html#sphx-glr-auto-examples-eg001x-template-py"><span class="std std-ref">WhoBPyT Demo</span></a> (<code class="docutils literal notranslate"><span class="pre">eg001x__template.py</span></code>)</p></td>
